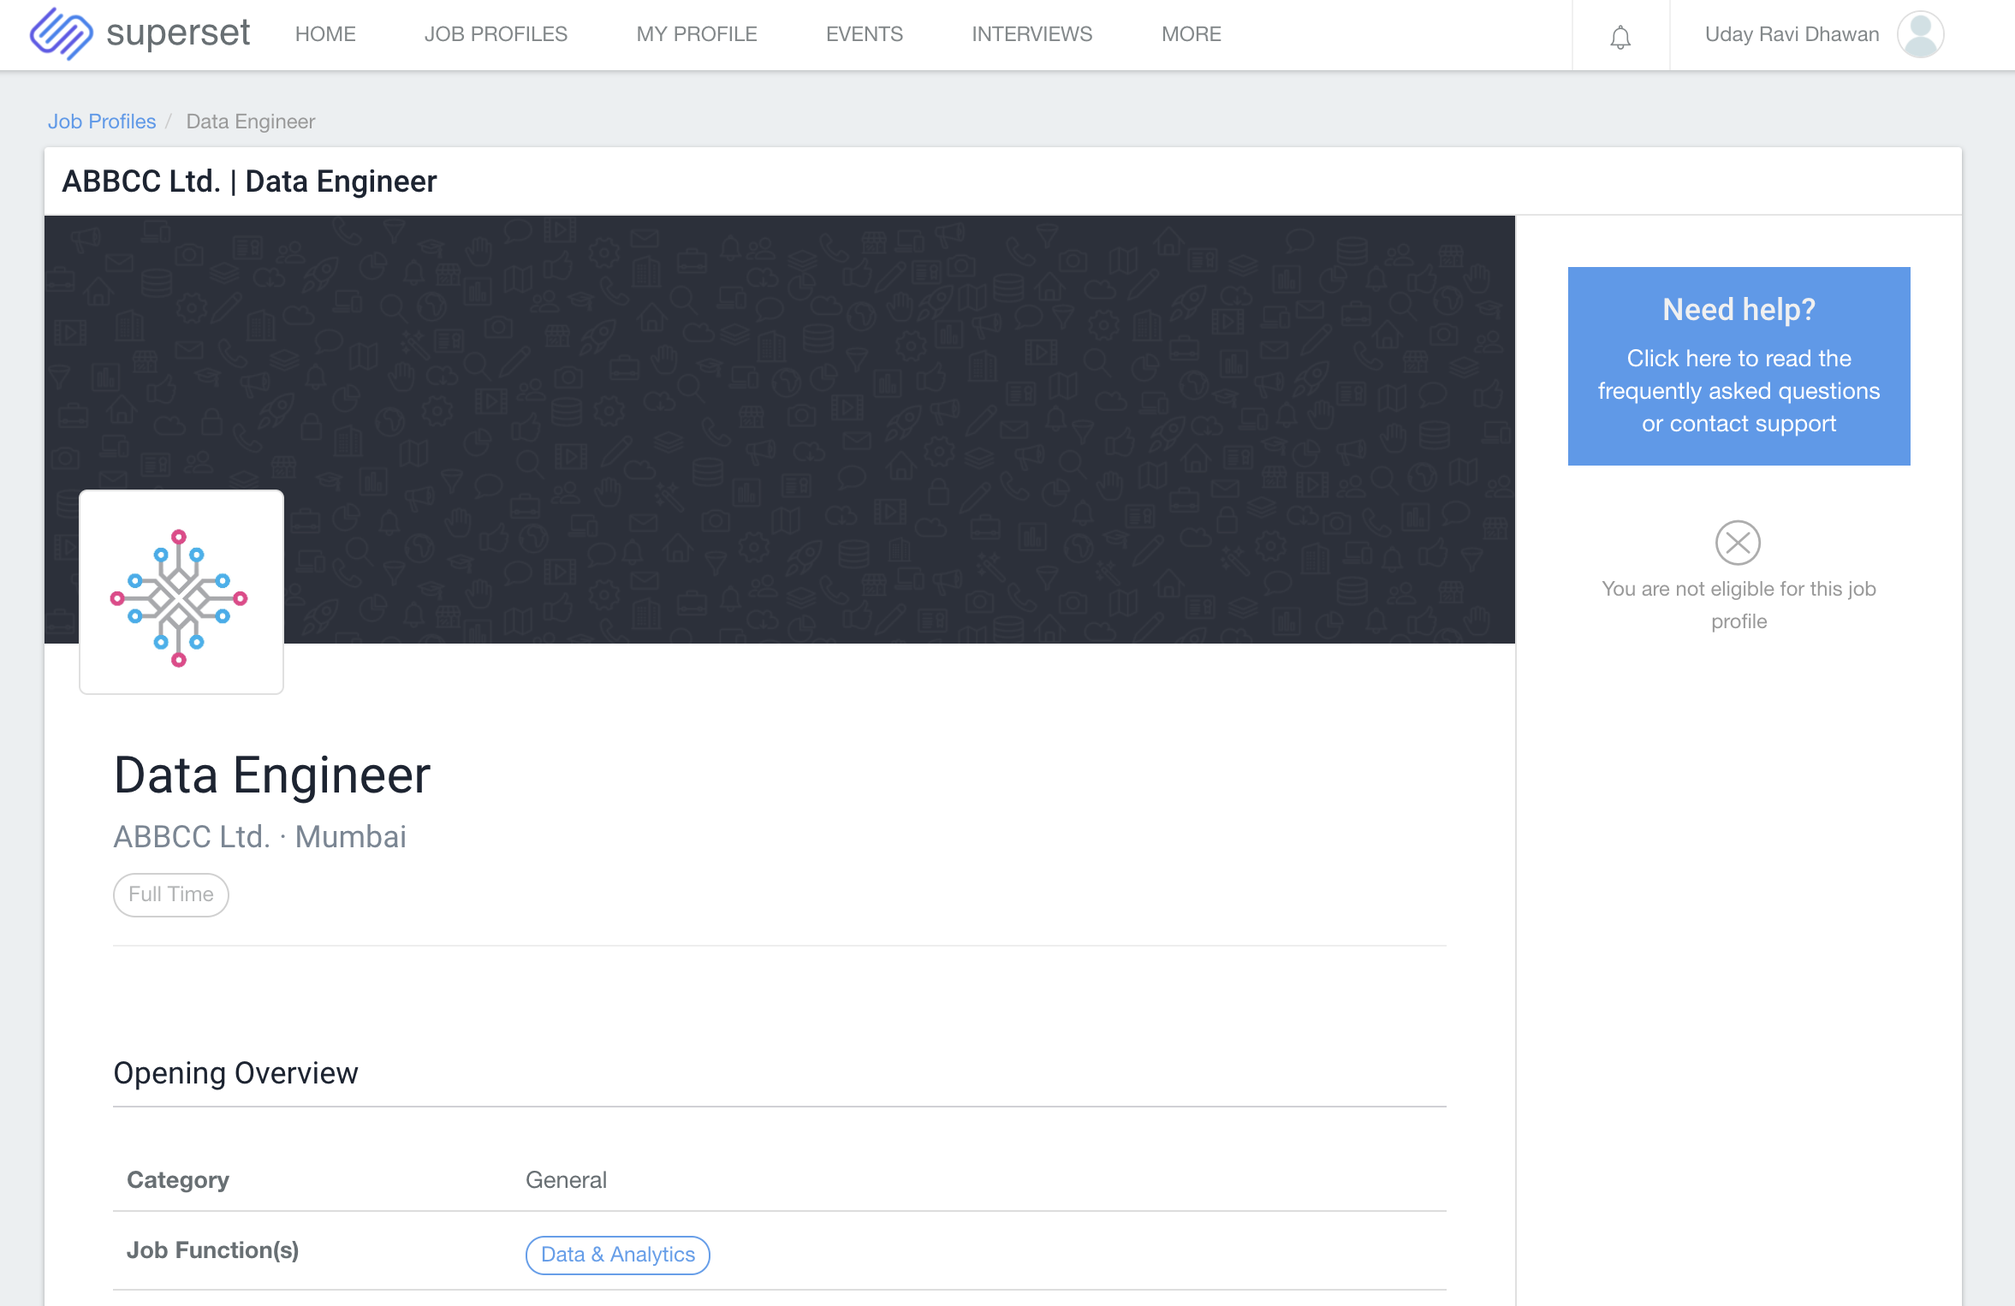
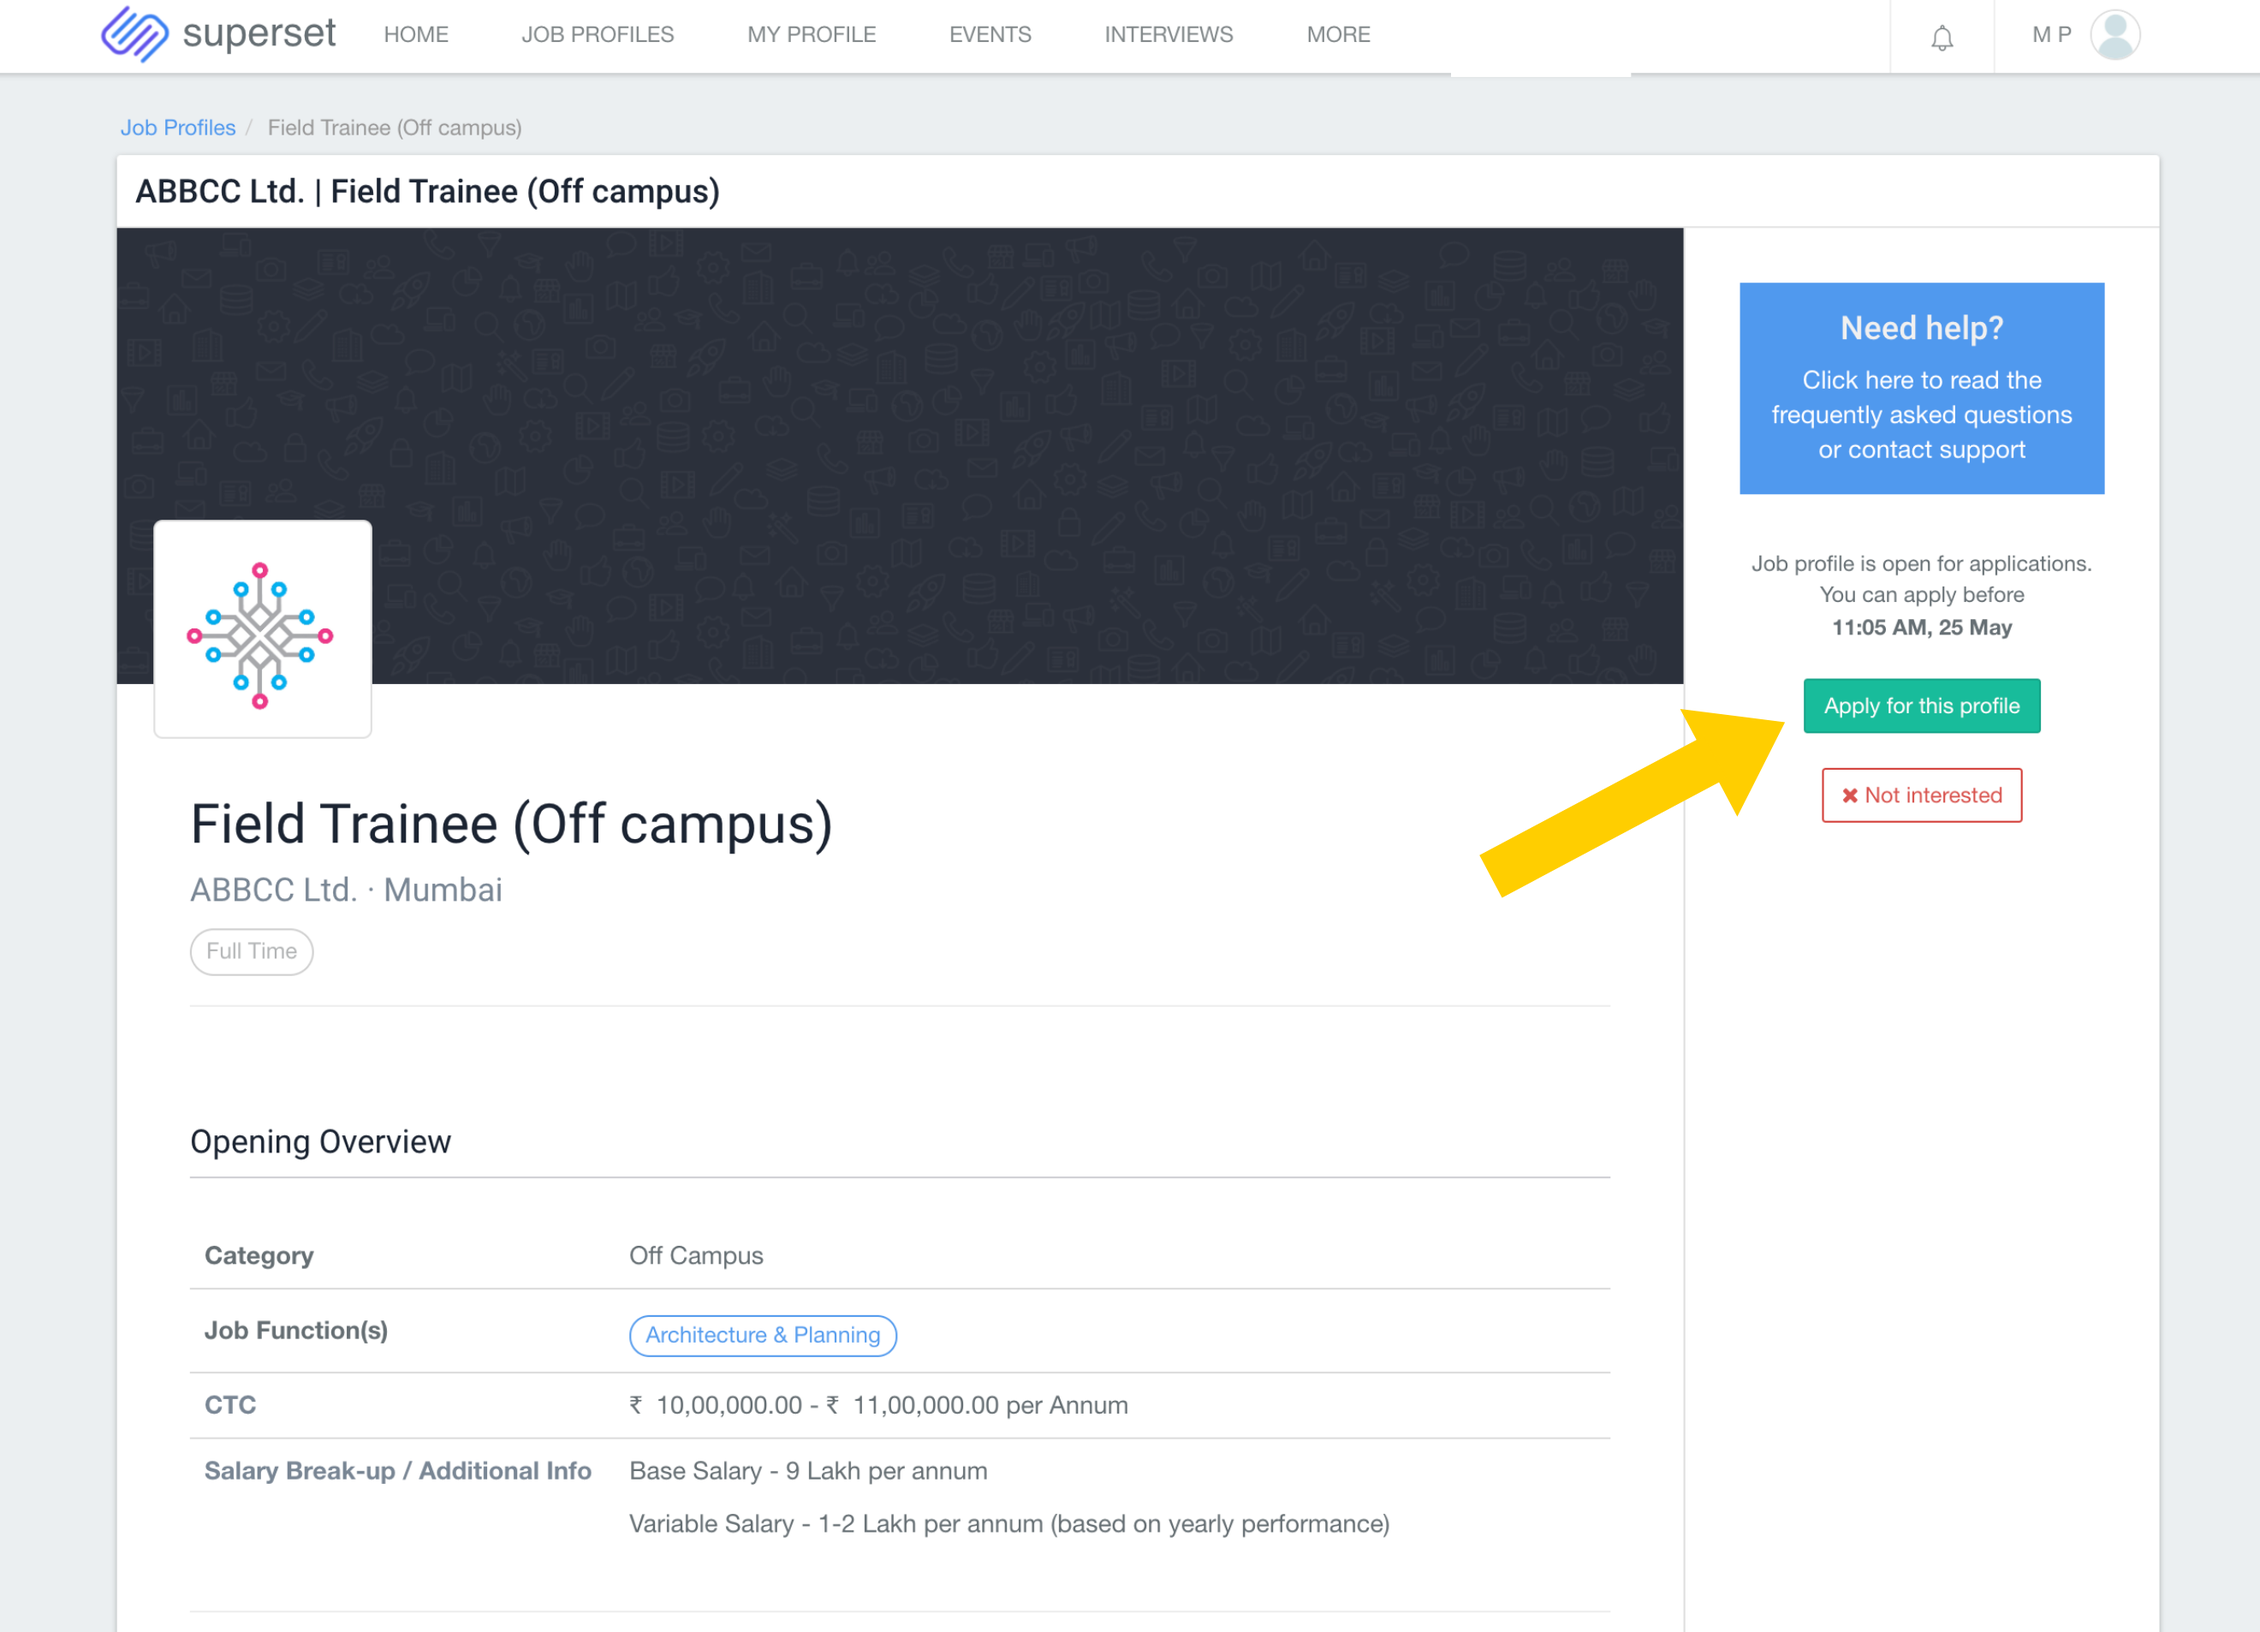
GitBook: [master] 3 pages and 14 assets modified

diff --git a/partner.student.help/job-profiles-section/applying-to-a-job.md b/partner.student.help/job-profiles-section/applying-to-a-job.md
@@ -1,2 +1,24 @@
 # How to Apply to a job?
 
+If your **college uses Superset for placements**, to apply for a job follow these steps:
+
+* Login to your Superset account. Go to - [https://app.joinsuperset.com](https://app.joinsuperset.com/#/s/feed) and enter your sign in email ID and password.
+
+![](../../.gitbook/assets/image%20%28159%29.png)
+
+* Go to the 'Job Profiles' section and click on the job opening you want to apply to.
+
+![](../../.gitbook/assets/image%20%28169%29.png)
+
+* **If you are eligible for the job,** then you should see the 'Apply for this job' button on the top right hand side. If you are not eligible for the job, then you will see - 'You are not eligible for this job profile' in the same place. \(If you are ineligible for the job, then you can scroll down to see why you are ineligible\)
+
+![](../../.gitbook/assets/image%20%28162%29.png)
+
+* After clicking on 'Apply for this Job' you should see this - 'You have applied for this job profile' on the top top right hand side
+
+![](../../.gitbook/assets/image%20%28170%29.png)
+
+* You can now click on the 'Job Profiles' tab again check for more job openings.
+
+
+

diff --git a/partner.student.help/job-profiles-section/job-eligibility.md b/partner.student.help/job-profiles-section/job-eligibility.md
@@ -6,13 +6,13 @@ Whenever a company posts a job opening on Superset, they set some eligibility cr
 
 * When you enter the 'Job Profiles' section and click on a Job Opening, on the top right hand side, you will see **'Apply for this profile' if you are eligible for the job.**
 
-![](../../.gitbook/assets/image%20%28165%29.png)
+![](../../.gitbook/assets/image%20%28172%29.png)
 
 * **If you are ineligible for the job**, then you will see this on this right hand side - 'You are not eligible for this job profile'. You can scroll down on the same page to check why you are ineligible for the job.
 
-![](../../.gitbook/assets/image%20%28160%29.png)
+![](../../.gitbook/assets/image%20%28161%29.png)
 
-![](../../.gitbook/assets/image%20%28159%29.png)
+![](../../.gitbook/assets/image%20%28160%29.png)
 
 * For example, in the screenshot shown above, the student is not eligible because he has backlogs.
 

diff --git a/partner.student.help/job-profiles-section/what-is-a-job-profile.md b/partner.student.help/job-profiles-section/what-is-a-job-profile.md
@@ -2,9 +2,9 @@
 
 A job profile contains the details of a job opening posted by a company. These details include - CTC being offered, Job Description, Hiring Workflow, Eligibility Criteria for the job. A typical Job Profile Looks like the one shown below:
 
-![](../../.gitbook/assets/image%20%28164%29.png)
+![](../../.gitbook/assets/image%20%28171%29.png)
 
-![](../../.gitbook/assets/image%20%28161%29.png)
+![](../../.gitbook/assets/image%20%28163%29.png)
 
 ### Opening Overview:
 
